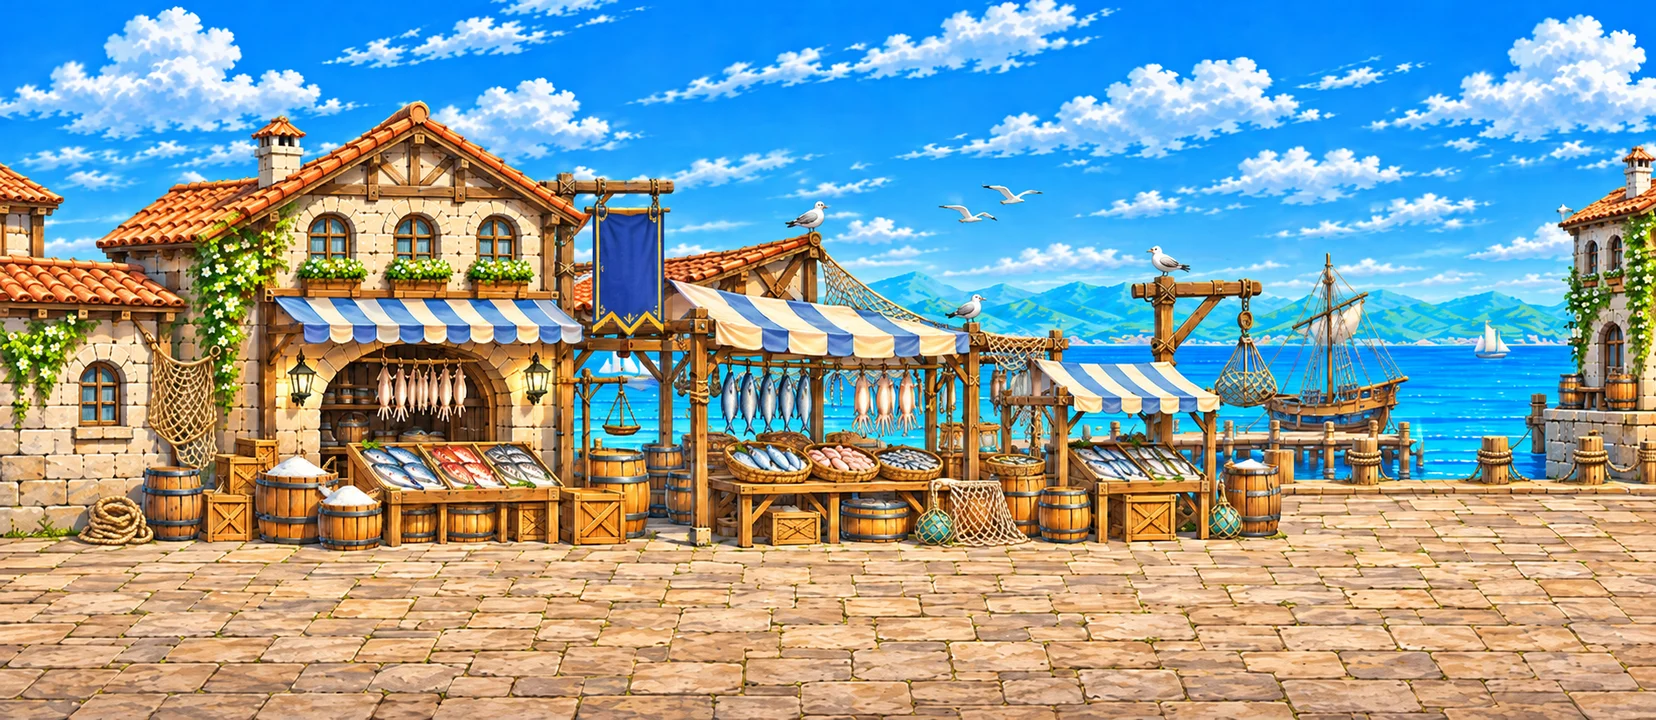
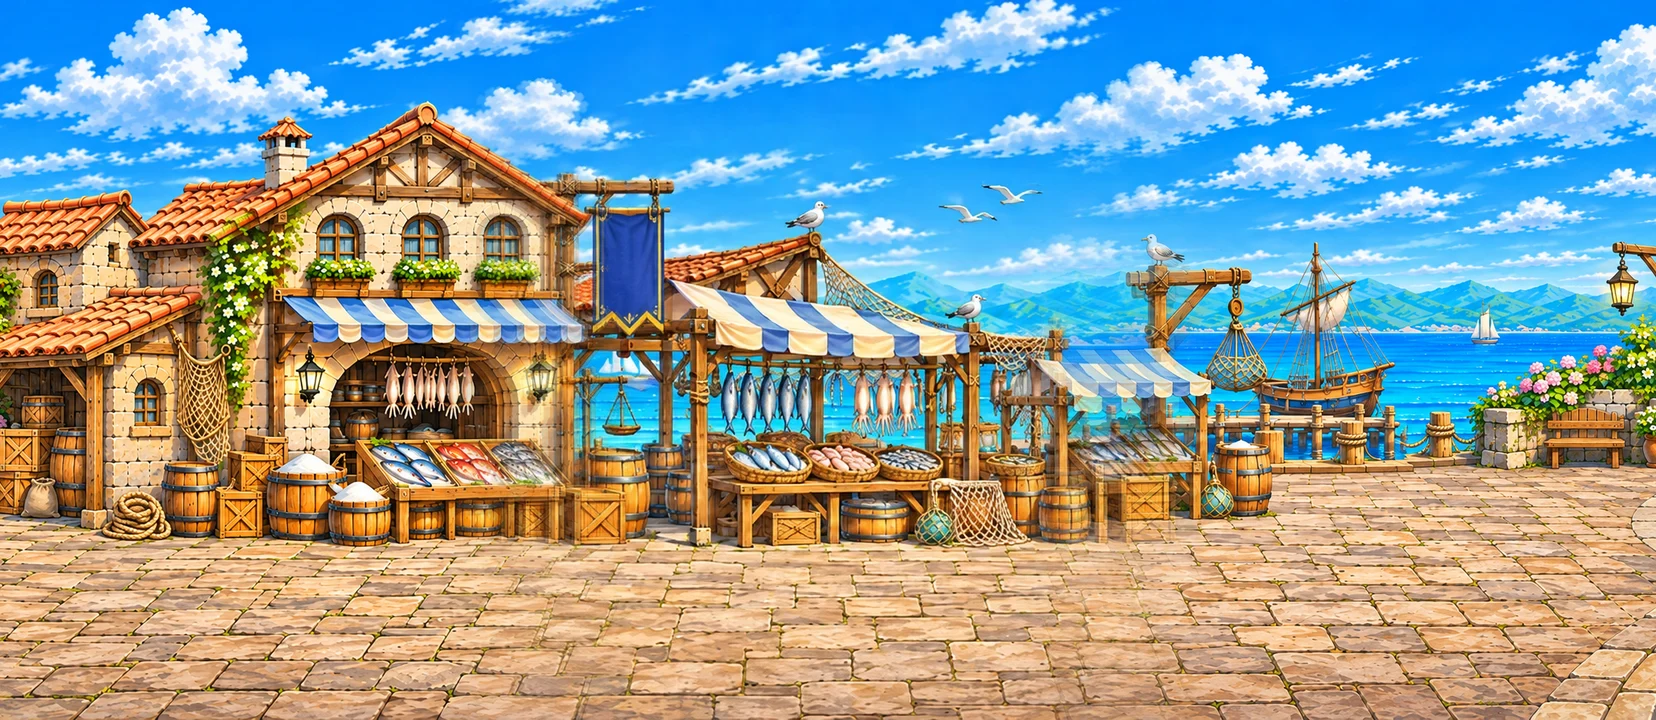
포르투 구역 이음새 4곳을 새로 그려 자연스럽게 연결, 설문 시작 전 '끝까지 응답' 안내와 시작하기 버튼
Claude-Session: https://claude.ai/code/session_01SwHSdbEEaZJxcHmirHV4co

diff --git a/games/autelia/js/porto_ext.js b/games/autelia/js/porto_ext.js
@@ -3,7 +3,7 @@
 (function () {
   const BG = (n) => ({ path: "assets/bg/" + n + ".webp" });
   Object.assign(AU.ASSETS, {
-    harbor_houses: BG("harbor_houses"), harbor_market: BG("harbor_market"), harbor_wharf: BG("harbor_wharf"), harbor_shipyard: BG("harbor_shipyard"),
+    harbor_houses: BG("harbor_houses"), harbor_market: BG("harbor_market"), harbor_wharf: BG("harbor_wharf"), harbor_shipyard: BG("harbor_shipyard"), harbor_mid: BG("harbor_mid"),
     npc_fisher: { path: "assets/char/npc_fisher.webp" }, npc_sailor: { path: "assets/char/npc_sailor.webp" }, npc_porter: { path: "assets/char/npc_porter.webp" },
     npc_fishwife: { path: "assets/char/npc_fishwife.webp" }, npc_housewife: { path: "assets/char/npc_housewife.webp" }, npc_townsman: { path: "assets/char/npc_townsman.webp" },
     pt_npc_fisher: { path: "assets/portrait/npc_fisher.webp" }, pt_npc_sailor: { path: "assets/portrait/npc_sailor.webp" }, pt_npc_porter: { path: "assets/portrait/npc_porter.webp" },
@@ -14,7 +14,7 @@
   AU.PORTO_OFF = OFF;
   const P = AU.MAPS.porto, sh = (x) => x + OFF;
 
-  P.bgs = ["harbor_houses", "harbor_market", "harbor_wharf", "harbor", "harbor_shipyard"]; P.bg = "harbor_houses"; P.width = TOTAL;
+  P.bgs = ["harbor_houses", "harbor_market", "harbor_wharf", "harbor_mid", "harbor_shipyard"]; P.bg = "harbor_houses"; P.width = TOTAL;
   P.platforms = [{ x: 0, y: 590, w: TOTAL }];
   P.portals = P.portals.map((p) => p.to === "harbor_road" ? p : p.to === "docks" ? Object.assign({}, p, { x: TOTAL - 70 }) : Object.assign({}, p, { x: sh(p.x) }));
   P.npcs = P.npcs.map((n) => Object.assign({}, n, { x: sh(n.x) }));

diff --git a/games/autelia/js/survey_ui.js b/games/autelia/js/survey_ui.js
@@ -87,8 +87,9 @@ window.AU = window.AU || {};
       h("div", { class: "svintro" },
         h("p", null, h("b", { text: "무엇을 묻나요  " }), what + " 약 " + MINUTES[key] + "분 걸립니다."),
         h("p", null, h("b", { text: "왜 하나요  " }), why + " 진단 검사가 아니며, 점수에 좋고 나쁨의 기준선이 없습니다."),
-        h("p", null, h("b", { text: "알아 두세요  " }), "정답이 없습니다. 하고 싶지 않으면 지금 하지 않아도 되고, 중간에 닫으면 답한 곳까지 저장됩니다. 점수를 올리려고 답을 고를 필요도, 그에 대한 보상도 없습니다.")),
-      h("div", { class: "svbtns" }, btn("뒤로", "", () => toList(rerender)), btn("시작", "primary", () => { state.view = "form"; rerender(); }, { "data-act": "begin" })));
+        h("p", null, h("b", { text: "알아 두세요  " }), "정답이 없습니다. 하고 싶지 않으면 지금 시작하지 않아도 됩니다. 점수를 올리려고 답을 고를 필요도, 그에 대한 보상도 없습니다."),
+        h("div", { class: "svwarn", role: "note" }, h("b", { text: "꼭 읽어 주세요  " }), "검사 시점의 상태가 중간에 달라지면 결과를 비교할 수 없습니다. 그래서 한 번 시작하면 끝까지 모두 응답해야 합니다. 시간이 충분할 때 시작해 주세요.")),
+      h("div", { class: "svbtns" }, btn("뒤로", "", () => toList(rerender)), btn("시작하기", "primary", () => { state.view = "form"; rerender(); }, { "data-act": "begin" })));
   }
 
   function formView(rerender) {

diff --git a/games/autelia/css/game.css b/games/autelia/css/game.css
@@ -536,3 +536,6 @@ html, body { margin: 0; height: 100%; overflow: hidden; background: #1F1A15; fon
 @media (max-width: 760px) { .jcard .jart.full, .jcard .jart.full.has-img { height: 150px; } }
 
 .mcards { display: grid; gap: 10px; margin: 8px 0 12px; } .mcard { display: flex; gap: 12px; background: #fff; border-radius: 10px; padding: 10px; } .mcard img { width: 150px; height: 84px; object-fit: cover; border-radius: 8px; flex: none; background: #eee; } .mtxt { flex: 1; min-width: 0; } .mtxt b { font-size: 15px; } .mtxt p { margin: 3px 0 6px; font-size: 13px; color: var(--ink2); } .memo { width: 100%; box-sizing: border-box; resize: vertical; font: inherit; font-size: 13px; padding: 6px 8px; border: 1px solid #ddd; border-radius: 6px; background: #fcfbf8; }
+
+.svwarn { margin-top: 10px; padding: 10px 12px; border-radius: 10px; background: rgba(224,170,80,.16); border: 1px solid rgba(224,170,80,.55); line-height: 1.55; }
+.svwarn b { color: #9a5b00; }
